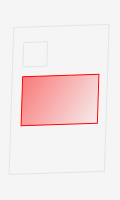
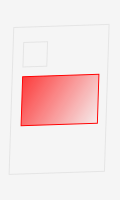
Use the highlight color selected
In change: I1b40f6 I missed to use the selected highlight color to
paint the highlight overlay.
Fix that, and also make the overlay more visible. This especially
helps colors other than red.

Bug: 232530871
Test: N/A

Changed region(s): [[0.175, 0.36, 0.725, 0.63]]

diff --git a/layout-inspector/testSrc/com/android/tools/idea/layoutinspector/ui/DeviceViewContentPanelTest.kt b/layout-inspector/testSrc/com/android/tools/idea/layoutinspector/ui/DeviceViewContentPanelTest.kt
@@ -146,7 +146,8 @@ class DeviceViewContentPanelTest {
     }
     val treeSettings = FakeTreeSettings()
     treeSettings.hideSystemNodes = false
-    val settings = EditorDeviceViewSettings(scalePercent = 30)
+    val settings = FakeDeviceViewSettings()
+    settings.scalePercent = 30
     settings.drawLabel = false
     val stats = SessionStatistics(model, treeSettings)
     val panel = DeviceViewContentPanel(model, stats, treeSettings, settings, { mock() }, mock(), null, disposable.disposable)
@@ -180,7 +181,7 @@ class DeviceViewContentPanelTest {
     }
     @Suppress("UndesirableClassUsage")
     val generatedImage = BufferedImage(120, 200, TYPE_INT_ARGB)
-    val settings = EditorDeviceViewSettings(scalePercent = 100)
+    val settings = FakeDeviceViewSettings()
     settings.drawLabel = false
     val treeSettings = FakeTreeSettings()
     treeSettings.hideSystemNodes = false
@@ -261,10 +262,21 @@ class DeviceViewContentPanelTest {
     ImageDiffUtil.assertImageSimilar(
       resolveWorkspacePathUnchecked("$TEST_DATA_PATH/testPaint_highlight2.png"), generatedImage, DIFF_THRESHOLD_TEXT)
 
-    settings.drawBorders = false
+    compose1.recompositions.highlightCount = 17f
+    settings.highlightColor = HIGHLIGHT_COLOR_ORANGE
     paint(panel, generatedImage)
     ImageDiffUtil.assertImageSimilar(
       resolveWorkspacePathUnchecked("$TEST_DATA_PATH/testPaint_highlight3.png"), generatedImage, DIFF_THRESHOLD_TEXT)
+
+    compose1.recompositions.highlightCount = 7f
+    paint(panel, generatedImage)
+    ImageDiffUtil.assertImageSimilar(
+      resolveWorkspacePathUnchecked("$TEST_DATA_PATH/testPaint_highlight4.png"), generatedImage, DIFF_THRESHOLD_TEXT)
+
+    settings.drawBorders = false
+    paint(panel, generatedImage)
+    ImageDiffUtil.assertImageSimilar(
+      resolveWorkspacePathUnchecked("$TEST_DATA_PATH/testPaint_highlight5.png"), generatedImage, DIFF_THRESHOLD_TEXT)
   }
 
   @Test
@@ -350,7 +362,7 @@ class DeviceViewContentPanelTest {
     val generatedImage = BufferedImage(40, 60, TYPE_INT_ARGB)
     var graphics = generatedImage.createGraphics()
 
-    val settings = EditorDeviceViewSettings(scalePercent = 100)
+    val settings = FakeDeviceViewSettings()
     settings.drawLabel = false
     val treeSettings = FakeTreeSettings()
     val panel = DeviceViewContentPanel(model, SessionStatistics(model, treeSettings), treeSettings, settings, { mock() }, mock(), null,
@@ -396,7 +408,7 @@ class DeviceViewContentPanelTest {
     model.setSelection(model[VIEW1], SelectionOrigin.INTERNAL)
     val treeSettings = FakeTreeSettings()
     treeSettings.hideSystemNodes = false
-    val panel = DeviceViewContentPanel(model, SessionStatistics(model, treeSettings), treeSettings, EditorDeviceViewSettings(), { mock() },
+    val panel = DeviceViewContentPanel(model, SessionStatistics(model, treeSettings), treeSettings, FakeDeviceViewSettings(), { mock() },
                                        mock(), null, disposable.disposable)
     panel.setSize(10, 15)
     panel.model.rotate(-1.0, -1.0)
@@ -422,7 +434,7 @@ class DeviceViewContentPanelTest {
     val generatedImage = BufferedImage(1000, 1500, TYPE_INT_ARGB)
     var graphics = generatedImage.createGraphics()
 
-    val settings = EditorDeviceViewSettings(scalePercent = 100)
+    val settings = FakeDeviceViewSettings()
     settings.drawLabel = false
     val treeSettings = FakeTreeSettings()
     treeSettings.hideSystemNodes = false
@@ -454,7 +466,7 @@ class DeviceViewContentPanelTest {
       }
     }
 
-    val settings = EditorDeviceViewSettings(scalePercent = 100)
+    val settings = FakeDeviceViewSettings()
     settings.drawLabel = false
     val treeSettings = FakeTreeSettings()
     treeSettings.hideSystemNodes = false
@@ -503,7 +515,7 @@ class DeviceViewContentPanelTest {
         }
       }
     }
-    val settings = EditorDeviceViewSettings(scalePercent = 100)
+    val settings = FakeDeviceViewSettings()
     settings.drawLabel = false
     val treeSettings = FakeTreeSettings()
     treeSettings.hideSystemNodes = false
@@ -537,7 +549,7 @@ class DeviceViewContentPanelTest {
         }
       }
     }
-    val settings = EditorDeviceViewSettings(scalePercent = 100)
+    val settings = FakeDeviceViewSettings()
     settings.drawLabel = false
     val treeSettings = FakeTreeSettings()
     treeSettings.hideSystemNodes = false
@@ -572,7 +584,7 @@ class DeviceViewContentPanelTest {
         }
       }
     }
-    val settings = EditorDeviceViewSettings(scalePercent = 100)
+    val settings = FakeDeviceViewSettings()
     settings.drawLabel = false
     val treeSettings = FakeTreeSettings()
     treeSettings.hideSystemNodes = false
@@ -601,7 +613,7 @@ class DeviceViewContentPanelTest {
 
   @Test
   fun testEmptyTextVisibility() {
-    val settings = EditorDeviceViewSettings(scalePercent = 100)
+    val settings = FakeDeviceViewSettings()
     settings.drawLabel = false
     val model = model {}
     val launcher: InspectorClientLauncher = mock()
@@ -659,7 +671,7 @@ class DeviceViewContentPanelTest {
     val generatedImage = BufferedImage(200, 300, TYPE_INT_ARGB)
     var graphics = generatedImage.createGraphics()
 
-    val settings = EditorDeviceViewSettings(scalePercent = 100)
+    val settings = FakeDeviceViewSettings()
     settings.drawLabel = false
     val treeSettings = FakeTreeSettings()
     treeSettings.hideSystemNodes = false
@@ -704,7 +716,7 @@ class DeviceViewContentPanelTest {
     val generatedImage = BufferedImage(200, 300, TYPE_INT_ARGB)
     var graphics = generatedImage.createGraphics()
 
-    val settings = EditorDeviceViewSettings(scalePercent = 100)
+    val settings = FakeDeviceViewSettings()
     settings.drawLabel = false
     val treeSettings = FakeTreeSettings()
     treeSettings.hideSystemNodes = false
@@ -745,7 +757,8 @@ class DeviceViewContentPanelTest {
     val generatedImage = BufferedImage(350, 450, TYPE_INT_ARGB)
     var graphics = generatedImage.createGraphics()
 
-    val settings = EditorDeviceViewSettings(scalePercent = 50)
+    val settings = FakeDeviceViewSettings()
+    settings.scalePercent = 50
     settings.drawLabel = false
     val treeSettings = FakeTreeSettings()
     treeSettings.hideSystemNodes = false
@@ -830,7 +843,7 @@ class DeviceViewContentPanelTest {
     val treeSettings = FakeTreeSettings()
     treeSettings.hideSystemNodes = false
     val stats = SessionStatistics(model, treeSettings)
-    val panel = DeviceViewContentPanel(model, stats, treeSettings, EditorDeviceViewSettings(), { mock() }, mock(), null,
+    val panel = DeviceViewContentPanel(model, stats, treeSettings, FakeDeviceViewSettings(), { mock() }, mock(), null,
                                        disposable.disposable)
     panel.setSize(120, 140)
 
@@ -869,7 +882,8 @@ class DeviceViewContentPanelTest {
     val generatedImage = BufferedImage(350, 450, TYPE_INT_ARGB)
     var graphics = generatedImage.createGraphics()
 
-    val settings = EditorDeviceViewSettings(scalePercent = 50)
+    val settings = FakeDeviceViewSettings()
+    settings.scalePercent = 50
     settings.drawLabel = false
     val treeSettings = FakeTreeSettings()
     treeSettings.hideSystemNodes = false
@@ -915,7 +929,8 @@ class DeviceViewContentPanelTest {
     var graphics = generatedImage.createGraphics()
     graphics.font = ImageDiffTestUtil.getDefaultFont()
 
-    val settings = EditorDeviceViewSettings(scalePercent = 50)
+    val settings = FakeDeviceViewSettings()
+    settings.scalePercent = 50
     settings.drawLabel = false
     val treeSettings = FakeTreeSettings()
     treeSettings.hideSystemNodes = false
@@ -977,7 +992,8 @@ class DeviceViewContentPanelTest {
     var graphics = generatedImage.createGraphics()
     graphics.font = ImageDiffTestUtil.getDefaultFont()
 
-    val settings = EditorDeviceViewSettings(scalePercent = 75)
+    val settings = FakeDeviceViewSettings()
+    settings.scalePercent = 75
     settings.drawLabel = false
     val treeSettings = FakeTreeSettings()
     treeSettings.hideSystemNodes = false
@@ -1011,7 +1027,7 @@ class DeviceViewContentPanelTest {
     val view1 = model[VIEW1]
     val treeSettings = FakeTreeSettings()
     treeSettings.hideSystemNodes = false
-    val panel = DeviceViewContentPanel(model, SessionStatistics(model, treeSettings), treeSettings, EditorDeviceViewSettings(), { mock() },
+    val panel = DeviceViewContentPanel(model, SessionStatistics(model, treeSettings), treeSettings, FakeDeviceViewSettings(), { mock() },
                                        mock(), null, disposable.disposable)
     val scrollPane = JBScrollPane(panel)
     panel.setBounds(0, 0, 1000, 1000)
@@ -1082,7 +1098,8 @@ class DeviceViewContentPanelTest {
     val generatedImage = BufferedImage(350, 450, TYPE_INT_ARGB)
     val graphics = generatedImage.createGraphics()
 
-    val settings = EditorDeviceViewSettings(scalePercent = 50)
+    val settings = FakeDeviceViewSettings()
+    settings.scalePercent = 50
     settings.drawLabel = false
     val treeSettings = FakeTreeSettings()
     treeSettings.hideSystemNodes = false
@@ -1108,7 +1125,7 @@ class DeviceViewContentPanelTest {
     val generatedImage = BufferedImage(90, 70, TYPE_INT_ARGB)
     var graphics = generatedImage.createGraphics()
 
-    val settings = EditorDeviceViewSettings(scalePercent = 100)
+    val settings = FakeDeviceViewSettings()
     settings.drawLabel = false
     val treeSettings = FakeTreeSettings()
     treeSettings.hideSystemNodes = false
@@ -1139,7 +1156,7 @@ class DeviceViewContentPanelTest {
       }
     }
 
-    val settings = EditorDeviceViewSettings(scalePercent = 100)
+    val settings = FakeDeviceViewSettings()
     settings.drawLabel = false
     val treeSettings = FakeTreeSettings()
     treeSettings.hideSystemNodes = false
@@ -1181,7 +1198,7 @@ class DeviceViewContentPanelWithScaledFontTest {
     treeSettings.hideSystemNodes = false
     val model = model {}
     val stats = SessionStatistics(model, treeSettings)
-    val panel = DeviceViewContentPanel(model, stats, treeSettings, EditorDeviceViewSettings(), { mock() }, mock(), mock(),
+    val panel = DeviceViewContentPanel(model, stats, treeSettings, FakeDeviceViewSettings(), { mock() }, mock(), mock(),
                                        disposable.disposable)
     panel.setSize(800, 400)
     @Suppress("UndesirableClassUsage")

diff --git a/layout-inspector/src/com/android/tools/idea/layoutinspector/model/DrawViewNode.kt b/layout-inspector/src/com/android/tools/idea/layoutinspector/model/DrawViewNode.kt
@@ -187,7 +187,7 @@ class DrawViewChild(owner: ViewNode) : DrawViewNode(owner) {
         g2.stroke = getEmphasizedLineStroke(viewSettings.scaleFraction)
       }
       showHighlight -> {
-        g2.color = highlightColor(model, highlightCount)
+        g2.color = highlightColor(model, highlightCount, viewSettings)
         g2.stroke = getNormalLineStroke(viewSettings.scaleFraction)
       }
       else -> {
@@ -218,20 +218,22 @@ class DrawViewChild(owner: ViewNode) : DrawViewNode(owner) {
     if (showHighlight) {
       val rect = bounds.bounds2D
       g2.paint = GradientPaint(
-        rect.x.toFloat(), rect.y.toFloat(), heatmapColor(model, highlightCount),
-        (rect.x + rect.width).toFloat(), (rect.y + rect.height).toFloat(), heatmapColor(model, 0f))
+        rect.x.toFloat(), rect.y.toFloat(), heatmapColor(model, highlightCount, viewSettings),
+        (rect.x + rect.width).toFloat(), (rect.y + rect.height).toFloat(), heatmapColor(model, 0f, viewSettings))
       g2.fill(bounds)
     }
   }
 
-  private fun highlightColor(model: InspectorModel, highlightCount: Float): Color {
+  private fun highlightColor(model: InspectorModel, highlightCount: Float, viewSettings: DeviceViewSettings): Color {
+    val baseColor = Color(viewSettings.highlightColor)
     val alpha = ((highlightCount * 255f) / model.maxHighlight).toInt().coerceIn(32, 255)
-    return Color(255, 0, 0, alpha)
+    return Color(baseColor.red, baseColor.green, baseColor.blue, alpha)
   }
 
-  private fun heatmapColor(model: InspectorModel, highlightCount: Float): Color {
-    val alpha = ((highlightCount * 128f) / model.maxHighlight).toInt().coerceIn(8, 128)
-    return Color(255, 0, 0, alpha)
+  private fun heatmapColor(model: InspectorModel, highlightCount: Float, viewSettings: DeviceViewSettings): Color {
+    val baseColor = Color(viewSettings.highlightColor)
+    val alpha = ((highlightCount * 192f) / model.maxHighlight).toInt().coerceIn(8, 192)
+    return Color(baseColor.red, baseColor.green, baseColor.blue, alpha)
   }
 
   /**

diff --git a/layout-inspector/src/com/android/tools/idea/layoutinspector/ui/ViewMenuAction.kt b/layout-inspector/src/com/android/tools/idea/layoutinspector/ui/ViewMenuAction.kt
@@ -29,6 +29,13 @@ import com.intellij.openapi.actionSystem.ex.CustomComponentAction
 import icons.StudioIcons
 import kotlin.reflect.KMutableProperty1
 
+const val HIGHLIGHT_COLOR_RED = 0xFF0000
+const val HIGHLIGHT_COLOR_BLUE = 0x4F9EE3
+const val HIGHLIGHT_COLOR_GREEN = 0x479345
+const val HIGHLIGHT_COLOR_YELLOW = 0xFFC66D
+const val HIGHLIGHT_COLOR_PURPLE = 0x871094
+const val HIGHLIGHT_COLOR_ORANGE = 0xE1A336
+
 object ViewMenuAction : DropDownAction(null, "View Options", StudioIcons.Common.VISIBILITY_INLINE) {
   class SettingsAction(name: String, val property: KMutableProperty1<DeviceViewSettings, Boolean>) : ToggleAction(name) {
     override fun isSelected(event: AnActionEvent) =
@@ -79,11 +86,11 @@ object HighlightColorAction : DefaultActionGroup("Recomposition Highlight Color"
   }
 
   init {
-    add(ColorSettingAction(0xFF0000, "Red"))
-    add(ColorSettingAction(0x4F9EE3, "Blue"))
-    add(ColorSettingAction(0x479345, "Green"))
-    add(ColorSettingAction(0xFFC66D, "Yellow"))
-    add(ColorSettingAction(0x871094, "Purple"))
-    add(ColorSettingAction(0xE1A336, "Orange"))
+    add(ColorSettingAction(HIGHLIGHT_COLOR_RED, "Red"))
+    add(ColorSettingAction(HIGHLIGHT_COLOR_BLUE, "Blue"))
+    add(ColorSettingAction(HIGHLIGHT_COLOR_GREEN, "Green"))
+    add(ColorSettingAction(HIGHLIGHT_COLOR_YELLOW, "Yellow"))
+    add(ColorSettingAction(HIGHLIGHT_COLOR_PURPLE, "Purple"))
+    add(ColorSettingAction(HIGHLIGHT_COLOR_ORANGE, "Orange"))
   }
 }

diff --git a/layout-inspector/testSrc/com/android/tools/idea/layoutinspector/ui/ViewMenuActionTest.kt b/layout-inspector/testSrc/com/android/tools/idea/layoutinspector/ui/ViewMenuActionTest.kt
@@ -154,5 +154,5 @@ class FakeDeviceViewSettings: DeviceViewSettings {
   override var drawUntransformedBounds = false
   override var drawLabel = true
   override var drawFold = false
-  override var highlightColor = 0xFF0000
+  override var highlightColor = HIGHLIGHT_COLOR_RED
 }
